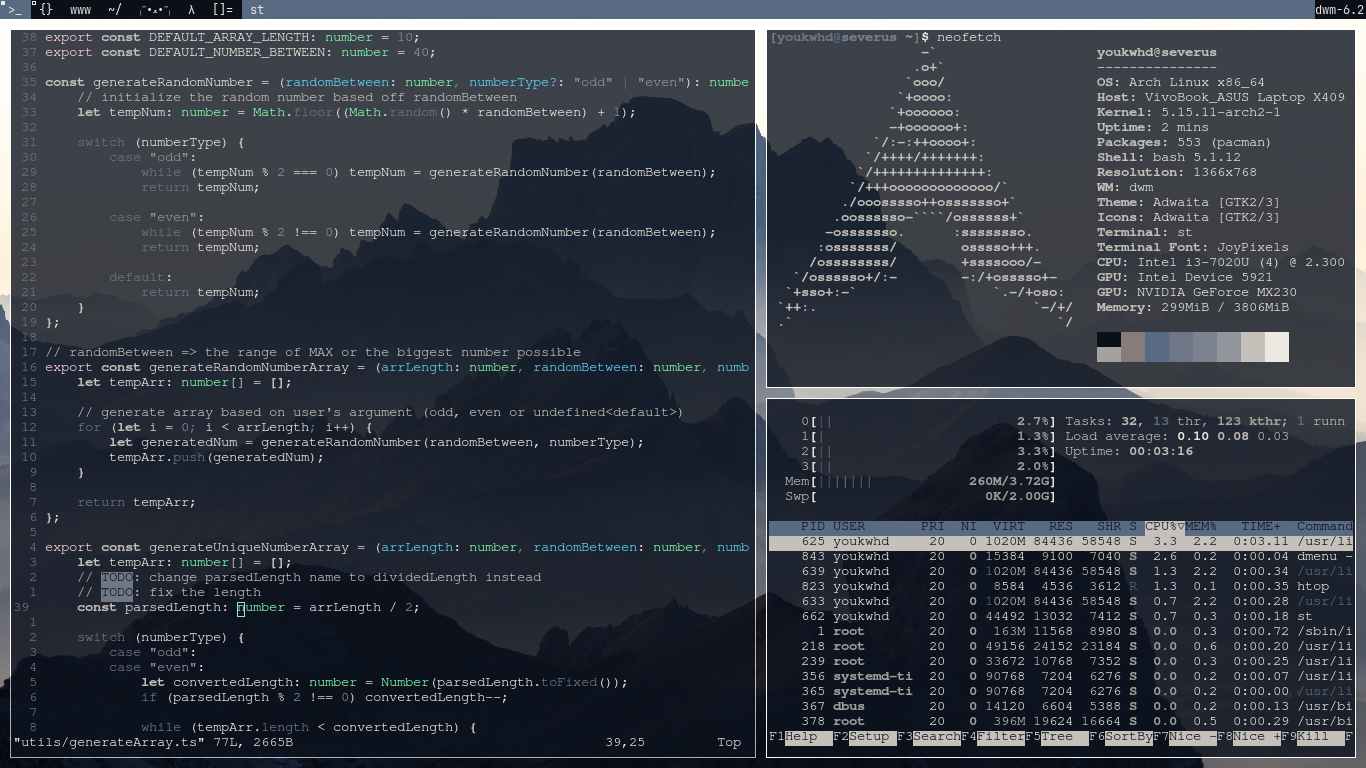
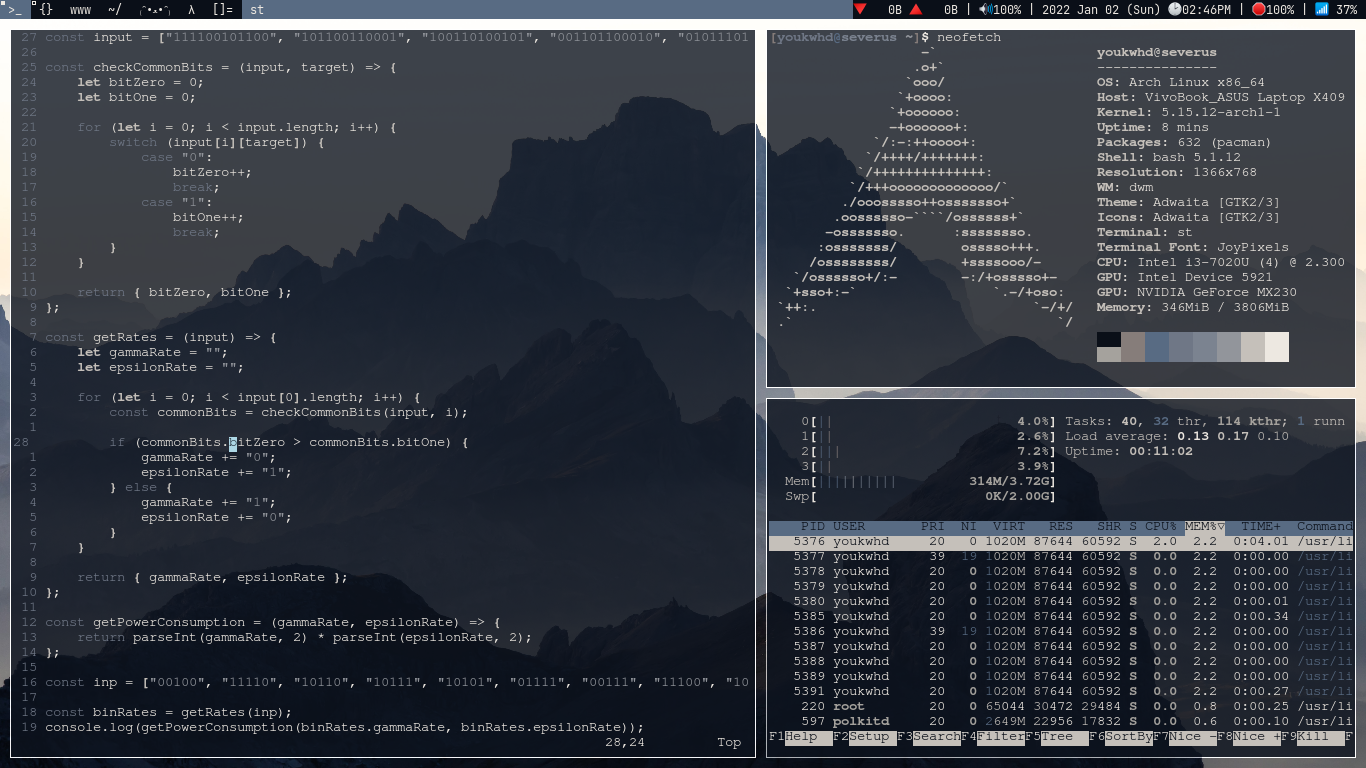
add dwmblocks

diff --git a/.config/dwmblocks/dwmblocks.c b/.config/dwmblocks/dwmblocks.c
@@ -1,0 +1,213 @@
+#include<stdlib.h>
+#include<stdio.h>
+#include<string.h>
+#include<unistd.h>
+#include<signal.h>
+#ifndef NO_X
+#include<X11/Xlib.h>
+#endif
+#ifdef __OpenBSD__
+#define SIGPLUS			SIGUSR1+1
+#define SIGMINUS		SIGUSR1-1
+#else
+#define SIGPLUS			SIGRTMIN
+#define SIGMINUS		SIGRTMIN
+#endif
+#define LENGTH(X)               (sizeof(X) / sizeof (X[0]))
+#define CMDLENGTH		50
+#define MIN( a, b ) ( ( a < b) ? a : b )
+#define STATUSLENGTH (LENGTH(blocks) * CMDLENGTH + 1)
+
+typedef struct {
+	char* icon;
+	char* command;
+	unsigned int interval;
+	unsigned int signal;
+} Block;
+#ifndef __OpenBSD__
+void dummysighandler(int num);
+#endif
+void sighandler(int num);
+void getcmds(int time);
+void getsigcmds(unsigned int signal);
+void setupsignals();
+void sighandler(int signum);
+int getstatus(char *str, char *last);
+void statusloop();
+void termhandler();
+void pstdout();
+#ifndef NO_X
+void setroot();
+static void (*writestatus) () = setroot;
+static int setupX();
+static Display *dpy;
+static int screen;
+static Window root;
+#else
+static void (*writestatus) () = pstdout;
+#endif
+
+
+#include "blocks.h"
+
+static char statusbar[LENGTH(blocks)][CMDLENGTH] = {0};
+static char statusstr[2][STATUSLENGTH];
+static int statusContinue = 1;
+static int returnStatus = 0;
+
+//opens process *cmd and stores output in *output
+void getcmd(const Block *block, char *output)
+{
+	strcpy(output, block->icon);
+	FILE *cmdf = popen(block->command, "r");
+	if (!cmdf)
+		return;
+	int i = strlen(block->icon);
+	fgets(output+i, CMDLENGTH-i-delimLen, cmdf);
+	i = strlen(output);
+	if (i == 0) {
+		//return if block and command output are both empty
+		pclose(cmdf);
+		return;
+	}
+	if (delim[0] != '\0') {
+		//only chop off newline if one is present at the end
+		i = output[i-1] == '\n' ? i-1 : i;
+		strncpy(output+i, delim, delimLen); 
+	}
+	else
+		output[i++] = '\0';
+	pclose(cmdf);
+}
+
+void getcmds(int time)
+{
+	const Block* current;
+	for (unsigned int i = 0; i < LENGTH(blocks); i++) {
+		current = blocks + i;
+		if ((current->interval != 0 && time % current->interval == 0) || time == -1)
+			getcmd(current,statusbar[i]);
+	}
+}
+
+void getsigcmds(unsigned int signal)
+{
+	const Block *current;
+	for (unsigned int i = 0; i < LENGTH(blocks); i++) {
+		current = blocks + i;
+		if (current->signal == signal)
+			getcmd(current,statusbar[i]);
+	}
+}
+
+void setupsignals()
+{
+#ifndef __OpenBSD__
+	    /* initialize all real time signals with dummy handler */
+    for (int i = SIGRTMIN; i <= SIGRTMAX; i++)
+        signal(i, dummysighandler);
+#endif
+
+	for (unsigned int i = 0; i < LENGTH(blocks); i++) {
+		if (blocks[i].signal > 0)
+			signal(SIGMINUS+blocks[i].signal, sighandler);
+	}
+
+}
+
+int getstatus(char *str, char *last)
+{
+	strcpy(last, str);
+	str[0] = '\0';
+	for (unsigned int i = 0; i < LENGTH(blocks); i++)
+		strcat(str, statusbar[i]);
+	str[strlen(str)-strlen(delim)] = '\0';
+	return strcmp(str, last);//0 if they are the same
+}
+
+#ifndef NO_X
+void setroot()
+{
+	if (!getstatus(statusstr[0], statusstr[1]))//Only set root if text has changed.
+		return;
+	XStoreName(dpy, root, statusstr[0]);
+	XFlush(dpy);
+}
+
+int setupX()
+{
+	dpy = XOpenDisplay(NULL);
+	if (!dpy) {
+		fprintf(stderr, "dwmblocks: Failed to open display\n");
+		return 0;
+	}
+	screen = DefaultScreen(dpy);
+	root = RootWindow(dpy, screen);
+	return 1;
+}
+#endif
+
+void pstdout()
+{
+	if (!getstatus(statusstr[0], statusstr[1]))//Only write out if text has changed.
+		return;
+	printf("%s\n",statusstr[0]);
+	fflush(stdout);
+}
+
+
+void statusloop()
+{
+	setupsignals();
+	int i = 0;
+	getcmds(-1);
+	while (1) {
+		getcmds(i++);
+		writestatus();
+		if (!statusContinue)
+			break;
+		sleep(1.0);
+	}
+}
+
+#ifndef __OpenBSD__
+/* this signal handler should do nothing */
+void dummysighandler(int signum)
+{
+    return;
+}
+#endif
+
+void sighandler(int signum)
+{
+	getsigcmds(signum-SIGPLUS);
+	writestatus();
+}
+
+void termhandler()
+{
+	statusContinue = 0;
+}
+
+int main(int argc, char** argv)
+{
+	for (int i = 0; i < argc; i++) {//Handle command line arguments
+		if (!strcmp("-d",argv[i]))
+			strncpy(delim, argv[++i], delimLen);
+		else if (!strcmp("-p",argv[i]))
+			writestatus = pstdout;
+	}
+#ifndef NO_X
+	if (!setupX())
+		return 1;
+#endif
+	delimLen = MIN(delimLen, strlen(delim));
+	delim[delimLen++] = '\0';
+	signal(SIGTERM, termhandler);
+	signal(SIGINT, termhandler);
+	statusloop();
+#ifndef NO_X
+	XCloseDisplay(dpy);
+#endif
+	return 0;
+}

diff --git a/.config/dwmblocks/blocks.def.h b/.config/dwmblocks/blocks.def.h
@@ -1,0 +1,11 @@
+//Modify this file to change what commands output to your statusbar, and recompile using the make command.
+static const Block blocks[] = {
+	/*Icon*/	/*Command*/		/*Update Interval*/	/*Update Signal*/
+	{"Mem:", "free -h | awk '/^Mem/ { print $3\"/\"$2 }' | sed s/i//g",	30,		0},
+
+	{"", "date '+%b %d (%a) %I:%M%p'",					5,		0},
+};
+
+//sets delimeter between status commands. NULL character ('\0') means no delimeter.
+static char delim[] = " | ";
+static unsigned int delimLen = 5;

diff --git a/.config/dwmblocks/README.md b/.config/dwmblocks/README.md
@@ -1,0 +1,15 @@
+# dwmblocks
+Modular status bar for dwm written in c.
+# usage
+To use dwmblocks first run 'make' and then install it with 'sudo make install'.
+After that you can put dwmblocks in your xinitrc or other startup script to have it start with dwm.
+# modifying blocks
+The statusbar is made from text output from commandline programs.
+Blocks are added and removed by editing the blocks.h header file.
+By default the blocks.h header file is created the first time you run make which copies the default config from blocks.def.h.
+This is so you can edit your status bar commands and they will not get overwritten in a future update.
+# patches
+Here are some patches to dwmblocks that add features that I either don't want to merge in, or that require a dwm patch to work.
+I do not maintain these but I will take pull requests to update them.
+<br>
+<a href=https://gist.github.com/IGeraGera/e4a5583b91b3eec2e81fdceb44dea717>dwmblocks-statuscmd-b6b0be4.diff</a>
